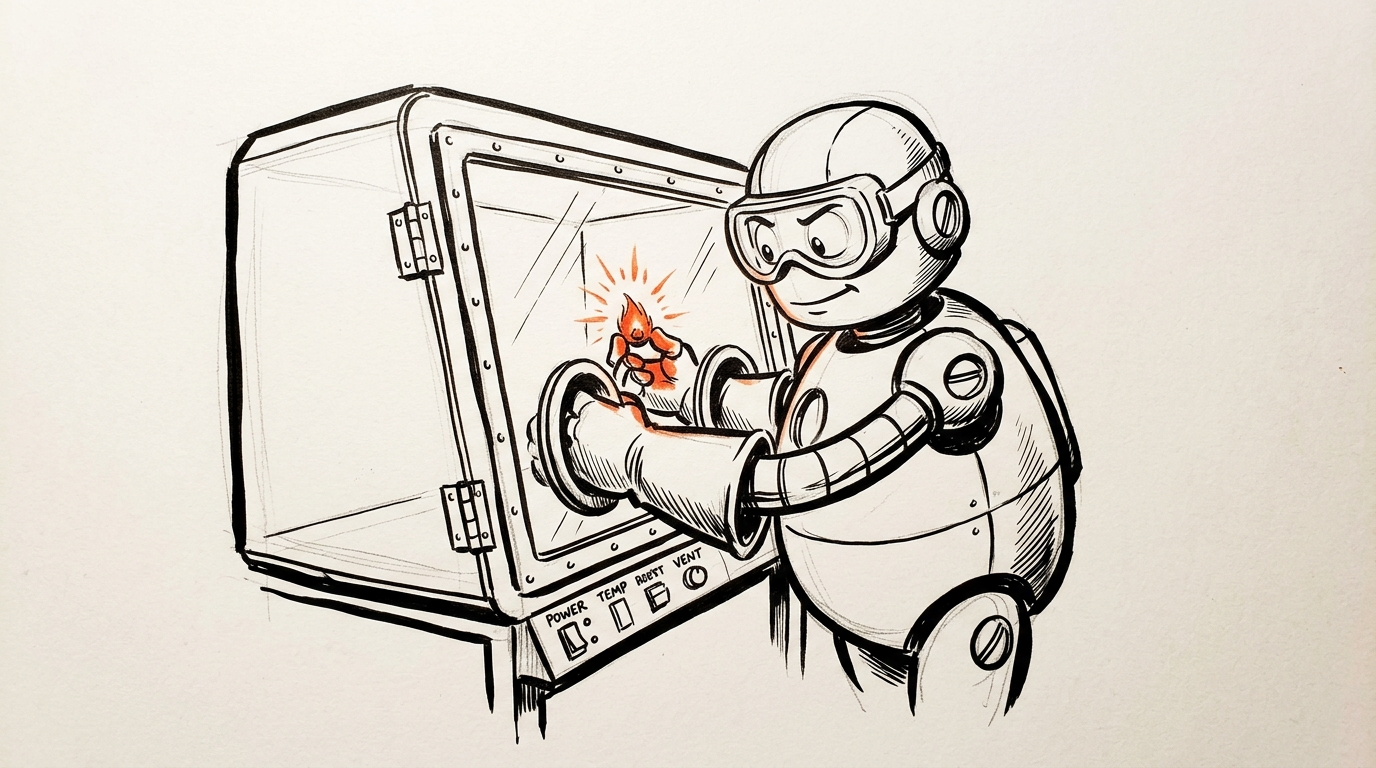
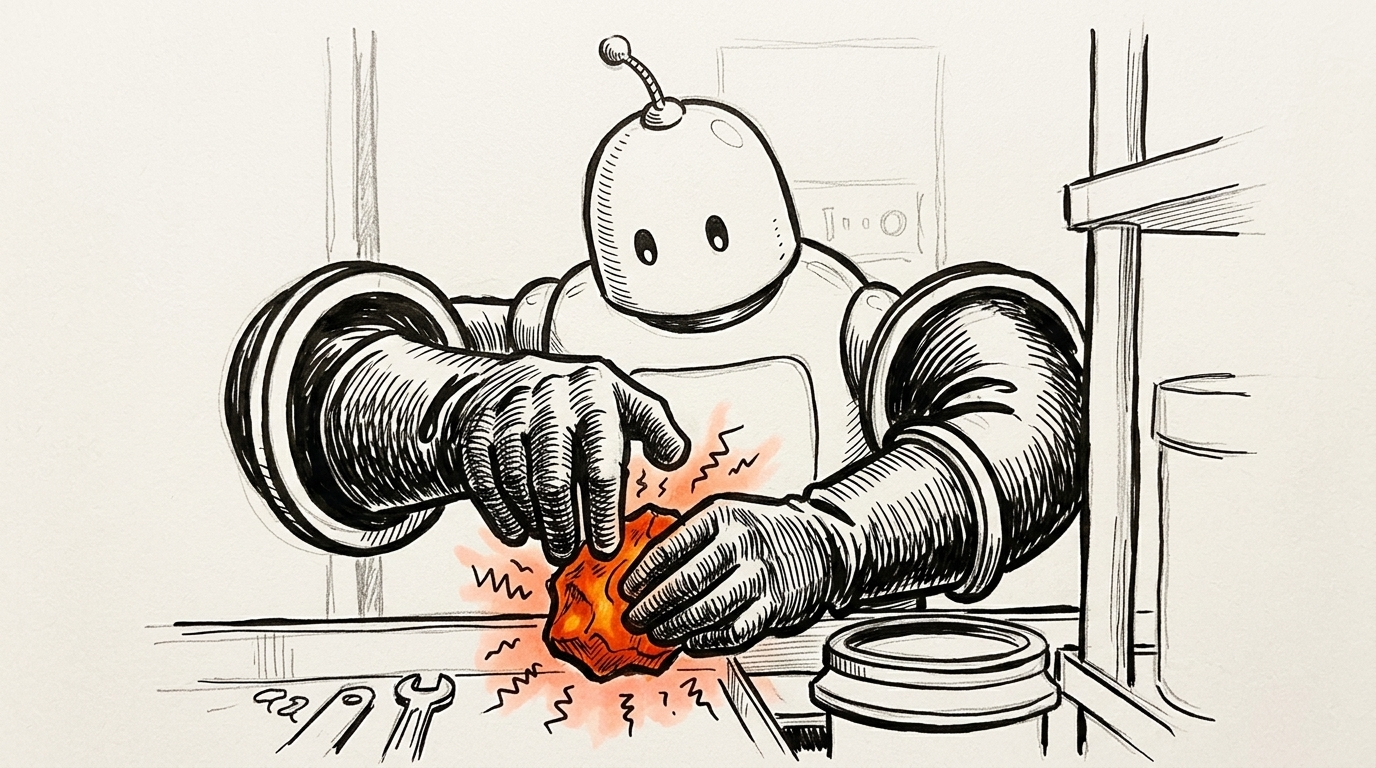
Polish recipes: navigation links + final glovebox illustration

diff --git a/docs/claude-code-recipes/00-overview.md b/docs/claude-code-recipes/00-overview.md
@@ -15,7 +15,7 @@ The recipes are ordered from foundational to advanced. The first two require not
 
 ## The recipes
 
-### 1. Skills and project organization
+### [1. Skills and project organization](01-skills-and-project-organization.md)
 
 ![Skills and project organization](recipe1_skill-organization-pegboard.png)
 
@@ -23,7 +23,11 @@ How to structure a personal Claude Code workshop so that your skills, rules, and
 
 **Prerequisites:** Claude Code installed. A git repository.
 
-### 2. The design-to-execution pipeline
+[Read recipe 1 →](01-skills-and-project-organization.md)
+
+---
+
+### [2. The design-to-execution pipeline](02-design-to-execution-pipeline.md)
 
 ![The design-to-execution pipeline](recipe2_execution-pipeline-assembly.png)
 
@@ -31,7 +35,11 @@ A document-driven workflow for building things with AI that produces predictable
 
 **Prerequisites:** Recipe 1 (project organization). A willingness to plan before building.
 
-### 3. The security plugin
+[Read recipe 2 →](02-design-to-execution-pipeline.md)
+
+---
+
+### [3. The security plugin](03-security-plugin.md)
 
 ![The security plugin](recipe3_security-plugin-three-helpers.png)
 
@@ -39,10 +47,16 @@ A Claude Code plugin that embeds your organization's security policy into every 
 
 **Prerequisites:** A security policy (even a draft). Claude Code's plugin system.
 
-### 4. The data proxy
+[Read recipe 3 →](03-security-plugin.md)
+
+---
+
+### [4. The data proxy](04-data-proxy.md)
 
 ![The data proxy](recipe4_data-proxy-glovebox.png)
 
 When AI tools need access to business data, a proxy in the middle is safer than giving the AI direct credentials. The proxy handles authentication, decides which operations to expose, and ensures Claude never holds the keys to the real system. Three tiers of sophistication depending on the org's technical capability.
 
 **Prerequisites:** An API or data source you want Claude to access safely.
+
+[Read recipe 4 →](04-data-proxy.md)

diff --git a/RELEASE_NOTES.md b/RELEASE_NOTES.md
@@ -1,3 +1,13 @@
+## v1.17.1 — 2026-04-12
+
+Polish pass on the adoption recipes.
+
+**Changed**
+- `docs/claude-code-recipes/00-overview.md` — section headers now link to their docs, each section gets a "Read recipe N" footer link and an HR separator for clearer navigation
+- `docs/claude-code-recipes/recipe4_data-proxy-glovebox.png` — replaced with a final illustration that has the correct glove box geometry (gloves attached to the box wall, robot arms enter through ports)
+
+---
+
 ## v1.17.0 — 2026-04-12
 
 Adoption recipes for organizations + writing-style rule.
